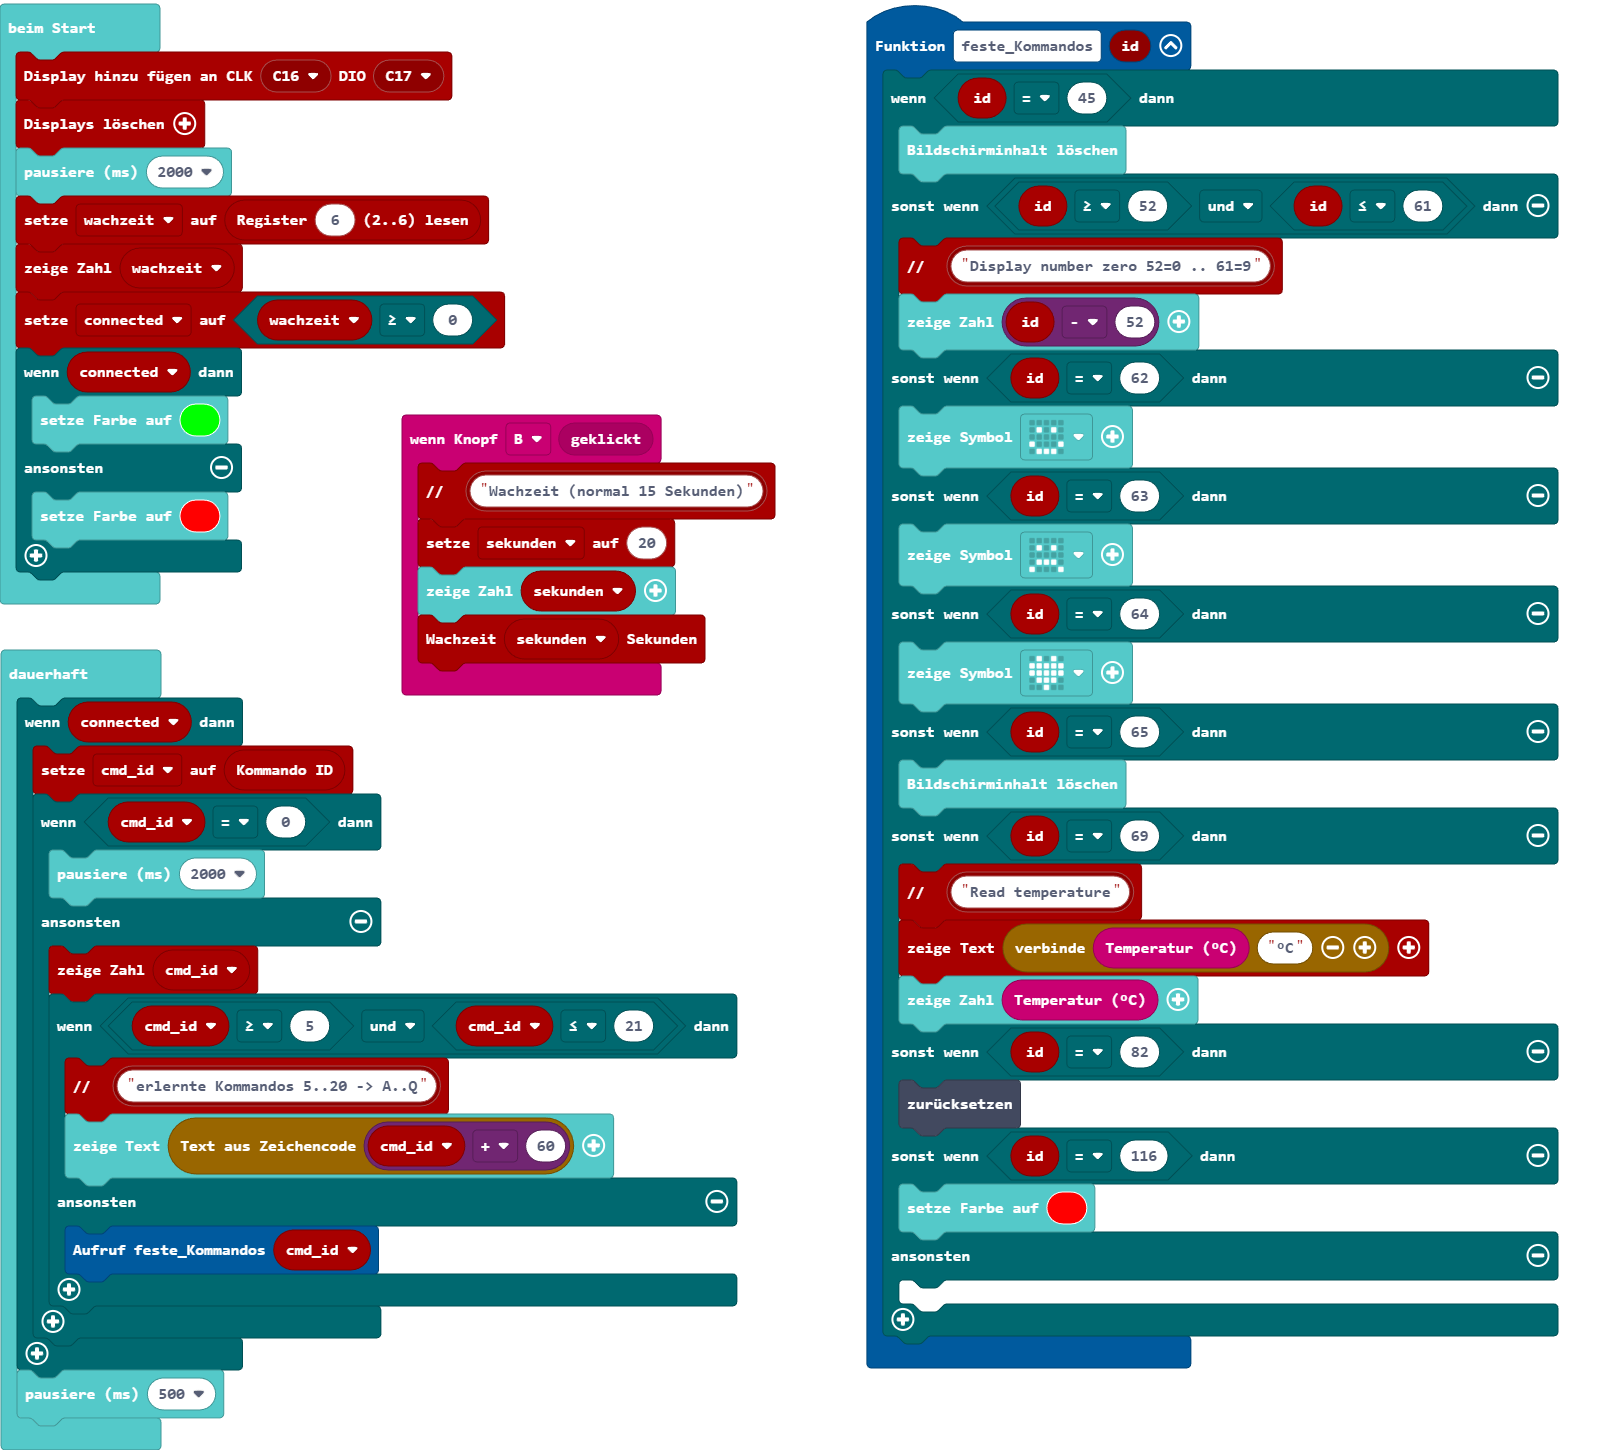
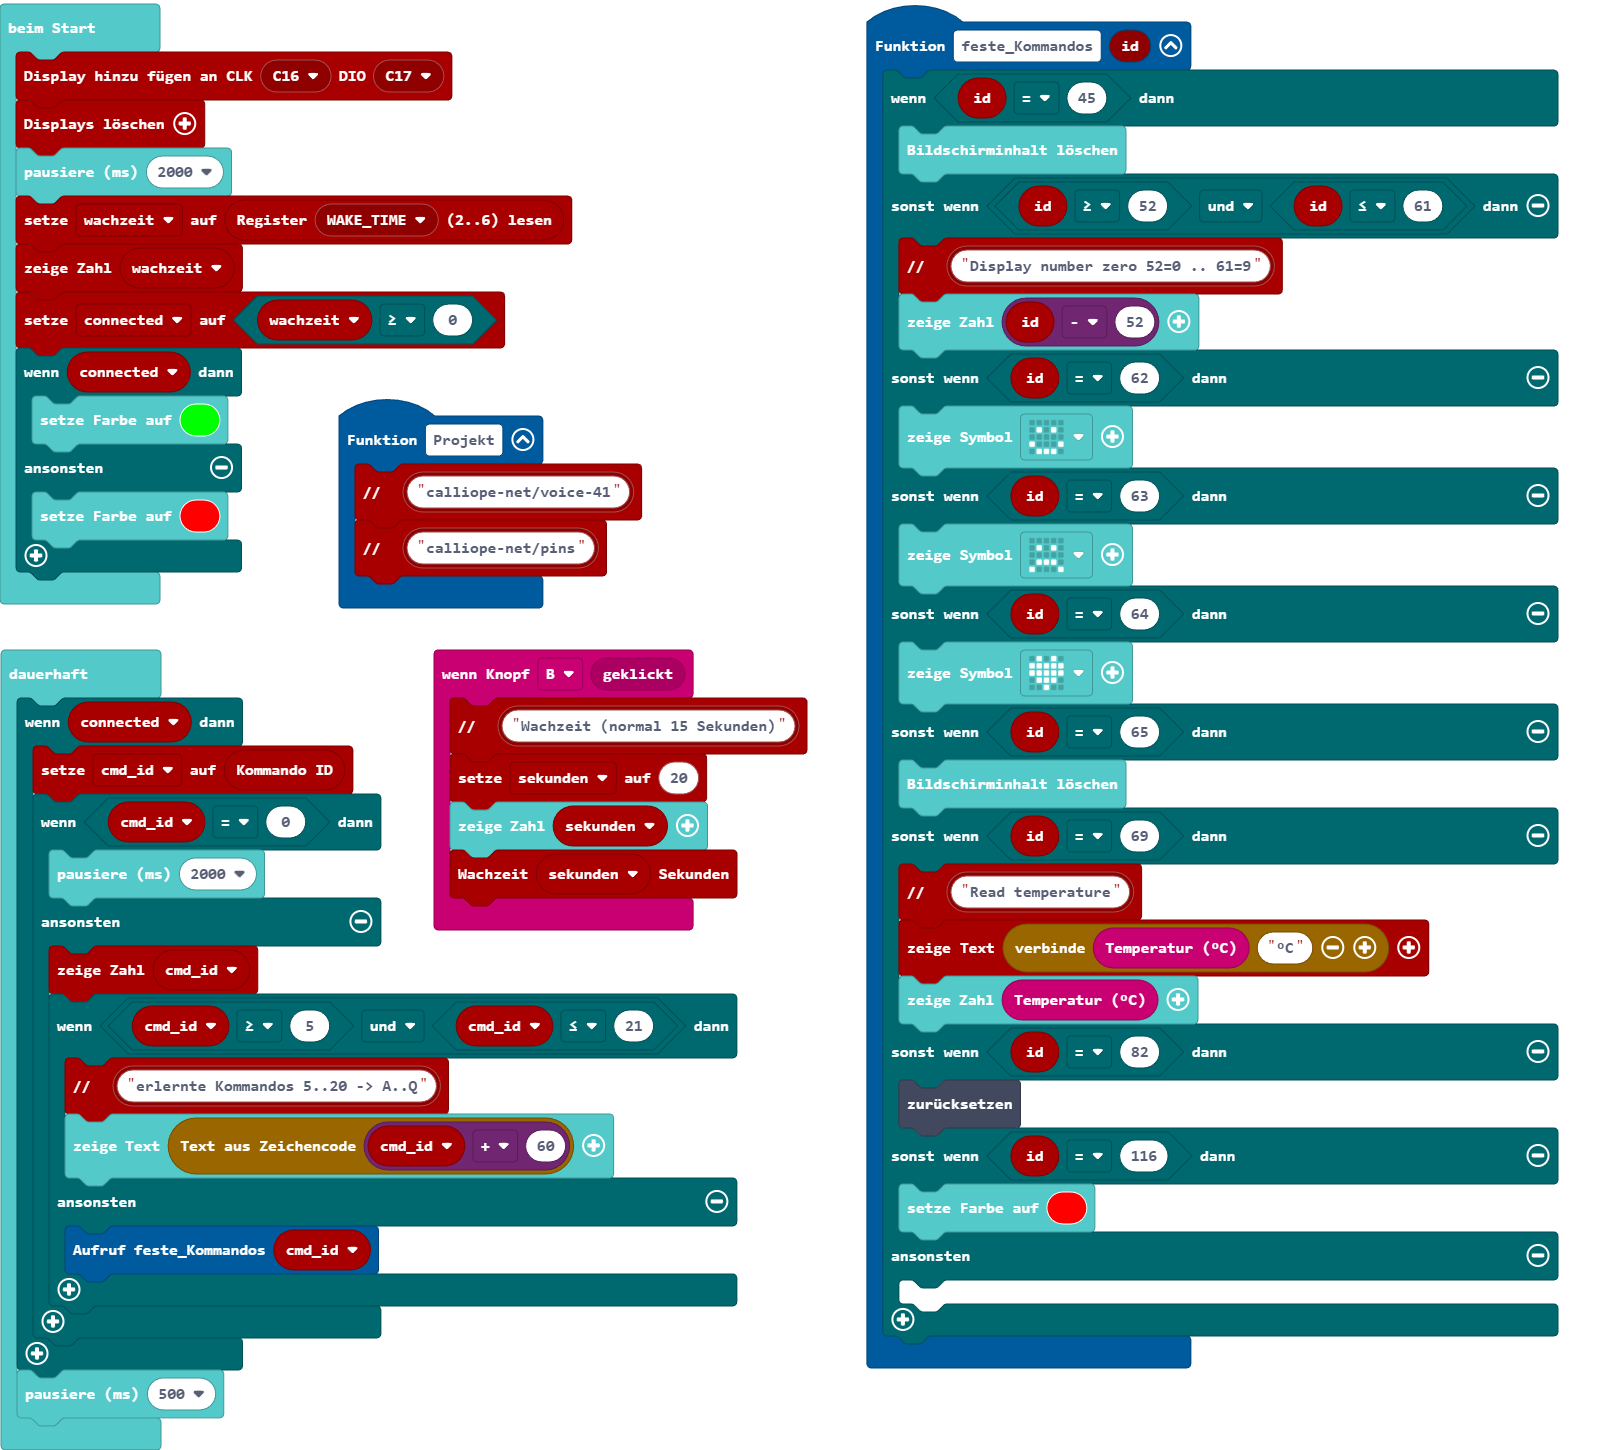
Aktualisiere pxt.json, main.blocks, main.ts

Changed region(s): [[0.1863, 0.2793, 0.528, 0.6517], [0.1863, 0.1241, 0.3727, 0.1862]]

diff --git a/main.ts b/main.ts
@@ -4,6 +4,10 @@ input.onButtonEvent(Button.B, input.buttonEventClick(), function () {
     basic.showNumber(sekunden)
     pins.voice_waketime(sekunden)
 })
+function Projekt () {
+    pins.comment(pins.pins_text("calliope-net/voice-41"))
+    pins.comment(pins.pins_text("calliope-net/pins"))
+}
 function feste_Kommandos (id: number) {
     if (id == 45) {
         basic.clearScreen()
@@ -35,7 +39,7 @@ let sekunden = 0
 pins.addDisplay(pins.pins_DigitalPin(DigitalPin.C16), pins.pins_DigitalPin(DigitalPin.C17))
 pins.clearDisplays()
 basic.pause(2000)
-let wachzeit = pins.voice_register(6)
+let wachzeit = pins.voice_register(pins.pins_voice_eRegister(pins.voice_eRegister.WAKE_TIME))
 pins.zeigeZahl(wachzeit)
 let connected = wachzeit >= 0
 if (connected) {
